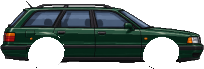
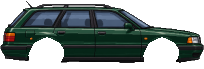
Testi con l'auto scelta e ritagli delle auto puliti
{Auto}/{auto}/{tipo} nei pensieri, nel capitolo Km 0 e nel messaggio dello zio diventano l'auto
ereditata con l'articolo giusto (vgTesto, VG_AUTO_NOME; game.s.vg.eredita).
strumenti/pulisci_bordi.py su tutte le 26 auto: tolti i pezzi di gomma e d'ombra sotto la
carrozzeria (488 pixel) e chiusi i buchi di un pixel nei passaruota (puntini di sfondo).

Claude-Session: https://claude.ai/code/session_015Y1zDhJgdDsS7JFF2BNqUJ

diff --git a/viaggio.js b/viaggio.js
@@ -9,6 +9,17 @@
 
 // ---------------------------------------------------------------- la strada: tappe e paesaggi
 const VG_STOP0 = 1800, VG_STEP = 3200;                     // prima tappa al km 1,8, poi una ogni 3,2 km
+// l'auto ereditata dallo zio (scelta nel prologo) nei testi della storia: {Auto} e {auto} diventano «La Panda» / «la Panda»,
+// {tipo} «un'utilitaria» / «una station wagon». Si ricorda in game.s.vg.eredita (senza: la Volvo).
+const VG_AUTO_NOME = { v40: ['la', 'Volvo', 'una station wagon'], a80: ["l'", 'Audi', 'una station wagon'], panda: ['la', 'Panda', "un'utilitaria"],
+  punto: ['la', 'Punto', "un'utilitaria"], corsa: ['la', 'Corsa', "un'utilitaria"], polo: ['la', 'Polo', "un'utilitaria"] };
+function vgTesto(game, text) {
+  if (typeof text !== 'string' || text.indexOf('{') < 0) return text;
+  const id = (game && game.s && game.s.vg && game.s.vg.eredita) || 'v40', c = typeof CARS !== 'undefined' && CARS[id];
+  const [art, nome, tipo] = VG_AUTO_NOME[id] || ['la', (c && (c.short || c.name)) || 'auto', "un'auto"];
+  const low = art.endsWith("'") ? art + nome : art + ' ' + nome, cap = low.charAt(0).toUpperCase() + low.slice(1);
+  return text.replace(/\{Auto\}/g, cap).replace(/\{auto\}/g, low).replace(/\{tipo\}/g, tipo);
+}
 const VG_PATTERN = ['bar', 'fuel', 'grill', 'niko', 'bar', 'motel', 'fuel', 'shop', 'bar', 'grill', 'style', 'motel'];
 const VG_BARS = ['Bar Sport', 'Bar della Curva', 'Caffè del Ponte', 'Bar Stella', 'Bar dei Camionisti', 'Bar Luna', 'Caffè Centrale', 'Bar Ultima Sosta'];
 const VG_PLACE = {
@@ -94,7 +105,7 @@ const VG_RUMORS = [
 // capitoli: si leggono al passaggio dei chilometri. Per ora solo la partenza: il resto lo scrive la nuova storia
 // (km, title, text; ogni capitolo si legge una volta)
 const VG_CHAPTERS = [
-  { km: 0, title: 'Km 0', text: 'La Volvo di tuo zio, il motore ancora freddo. In tasca pochi soldi, nel bagagliaio la ruota di scorta. Davanti l\'autostrada, e un cartello solo: «SOLO AVANTI». Al bar del km 1,8 qualcuno ti aspetta con un lavoro: un pacco da portare al benzinaio dopo, pagano diecimila. Metti la prima.' },
+  { km: 0, title: 'Km 0', text: '{Auto} di tuo zio, il motore ancora freddo. In tasca pochi soldi, nel bagagliaio la ruota di scorta. Davanti l\'autostrada, e un cartello solo: «SOLO AVANTI». Al bar del km 1,8 qualcuno ti aspetta con un lavoro: un pacco da portare al benzinaio dopo, pagano diecimila. Metti la prima.' },
 ];
 
 // ---------------------------------------------------------------- eventi strani (per ora vuoto: li scrive la nuova storia)
@@ -358,7 +369,7 @@ const vgKm = (game) => (game.s.dist || 0) / 1000;
     const v = this.s.vg, c = VG_CHAPTERS.find((q) => q.km === k); if (!c) return;
     v.chapters[k] = true;
     this.prompt = null;
-    this.ask({ kind: 'story', title: c.title, text: c.text, time: 40, options: [{ label: k === 0 ? 'Parti' : 'Continua' }] });
+    this.ask({ kind: 'story', title: c.title, text: vgTesto(this, c.text), time: 40, options: [{ label: k === 0 ? 'Parti' : 'Continua' }] });
   };
 
   // ------------------------------------------------------------ autostoppisti
@@ -575,4 +586,4 @@ const vgKm = (game) => (game.s.dist || 0) / 1000;
   };
 })();
 
-if (typeof window !== 'undefined') Object.assign(window, { VG, VG_SHOP, VG_CHAPTERS, VG_ODD, VG_STORY_PAX, VG_FOODS, VG_SEATS, VG_RUMORS, vgOn });
+if (typeof window !== 'undefined') Object.assign(window, { vgTesto, VG_AUTO_NOME, VG, VG_SHOP, VG_CHAPTERS, VG_ODD, VG_STORY_PAX, VG_FOODS, VG_SEATS, VG_RUMORS, vgOn });

diff --git a/telefono.js b/telefono.js
@@ -18,7 +18,7 @@ const TEL_SMS = [
   { from: 'Studio Ferri', km: 0, dir: 'o', text: 'Arrivo.' },
   { from: 'Officina Niko', km: 2, text: 'Il tagliando te lo faccio a metà prezzo se passi stasera.' },
   { from: 'Motel Ovunque', km: 4, text: 'Camera 7 libera. La cassa la trovi già dentro.' },
-  { from: 'Zio Claudio', km: 150, bad: 1, text: 'Hai preso la Volvo. Giusto così.' },
+  { from: 'Zio Claudio', km: 150, bad: 1, text: 'Hai preso {auto}. Giusto così.' },   // {auto}: l'auto scelta nel garage
   { from: 'Zio Claudio', km: 400, bad: 1, text: 'sei già passato di qui' },
   { from: 'Zio Claudio', km: 400.1, bad: 1, dir: 'o', text: 'chi sei' },
   { from: 'Zio Claudio', km: 400.2, bad: 1, text: 'non fermarti' },
@@ -146,7 +146,8 @@ const telThreads = (km) => {
   const initials = (n) => n.split(' ').map((w) => w[0]).slice(0, 2).join('');
   const av = (n, bad) => `<span class="av ${bad ? 'bad' : ''}">${initials(n)}</span>`;
   const nav = (t, back) => `<div class="nav ${back ? 'sm' : ''}">${back ? '<button class="bk" data-back>‹ Indietro</button>' : ''}<h3>${t}</h3>${back ? '<span style="width:60px"></span>' : ''}</div>`;
-  const esc = (s) => String(s).replace(/[&<>"]/g, (c) => ({ '&': '&amp;', '<': '&lt;', '>': '&gt;', '"': '&quot;' }[c]));
+  const auto = (s) => (typeof vgTesto === 'function' && window.nightRun ? vgTesto(window.nightRun.game, s) : s);   // {auto} → l'auto ereditata
+  const esc = (s) => String(auto(s)).replace(/[&<>"]/g, (c) => ({ '&': '&amp;', '<': '&lt;', '>': '&gt;', '"': '&quot;' }[c]));
 
   // ------------------------------------------------------------ schermate
   const status = () => `<div class="sb"><span>${clock()}</span><span>${atto() >= 1 ? '<span style="opacity:.5">▂▄▆</span>' : '▂▄▆▇'}<span class="bat ${atto() >= 2 ? 'low' : ''}"><i></i></span></span></div><div class="isl"></div><div class="hb" data-home></div>`;
@@ -282,7 +283,7 @@ const telThreads = (km) => {
     if (btn) btn.hidden = false;
     const k = km(), t = T(), n = TEL_SMS.filter((m) => m.km <= k).length;
     if (t.n === undefined) t.n = n;                                      // i messaggi che c'erano già non fanno avviso (la lettera dello studio l'hai letta nel prologo)
-    if (n > t.n) { const m = TEL_SMS.filter((x) => x.km <= k && x.dir !== 'o').pop(); t.n = n; if (m) { toast(m.from, m.text, m.bad); if (ST.on && ST.view === 'msg') render(); } refreshBtn(); }
+    if (n > t.n) { const m = TEL_SMS.filter((x) => x.km <= k && x.dir !== 'o').pop(); t.n = n; if (m) { toast(m.from, auto(m.text), m.bad); if (ST.on && ST.view === 'msg') render(); } refreshBtn(); }
     // cartelloni delle app: il prossimo compare sulla strada davanti a te; quando lo superi spunta l'icona da scaricare
     const off = telNextOffer(k, t.apps);
     if (off && g.ents) { const x = g.s.dist + 260; t.apps[off.app] = { st: 'sign', x }; g.ents.push({ id: g.id++, kind: 'vgsign', lane: 0, x, v: 0, text: off.sign, app: true }); }

diff --git a/pensieri.js b/pensieri.js
@@ -11,7 +11,7 @@ const PENS_KM = [
   { km: 1, id: 'radio', text: 'La radio gracchia. E queste stazioni non le ho mai sentite, eppure sono sempre in zona.' },
   { km: 3.5, id: 'navigatore', text: 'Il navigatore del telefono dice solo «prosegui dritto». Utile.' },
   { km: 6, id: 'uscite', text: 'Guido da un po\' e non ho ancora visto un\'uscita. Non mi ricordavo questa strada così.' },
-  { km: 9, id: 'volvo', text: 'La Volvo di zio Claudio non l\'avevo mai guidata. Si sente che l\'ha tenuta bene.' },
+  { km: 9, id: 'volvo', text: '{Auto} di zio Claudio non l\'avevo mai guidata. Si sente che l\'ha tenuta bene.' },   // {Auto}: l'auto scelta nel garage
   { km: 13, id: 'bar', text: 'Tanti bar, tutti aperti. A quest\'ora, poi.' },
   { km: 18, id: 'cartello', text: 'Sono sicuro di aver già visto quel cartello. Forse no.' },
 ];
@@ -38,7 +38,7 @@ const PENS_BISOGNI = {
 // a caso, ogni tanto, mentre si guida: ognuno una sola volta per partita
 const PENS_ANIMO = [
   'Che silenzio. Solo il motore e la strada.',
-  'La Volvo tira bene, per essere una station wagon.',
+  '{Auto} tira bene, per essere {tipo}.',
   'Chissà cosa aveva in mente lo zio con tutte quelle auto sotto i teli.',
   'Di notte la strada sembra più lunga. Come diceva il notaio.',
   'Ho la strada quasi tutta per me.',
@@ -70,6 +70,7 @@ const PENS_RIPETI = 420;                  // se il bisogno resta, lo ripete (con
   P.vgThink = function (text) {
     const p = stato(this);
     this.thoughtN = (this.thoughtN || 0) + 1;
+    text = typeof vgTesto === 'function' ? vgTesto(this, text) : text;
     this.thought = { text, left: Math.max(8, Math.min(10, 7.5 + text.length * 0.025)), id: this.thoughtN };
     p.last = p.t;
   };

diff --git a/index.html b/index.html
@@ -3240,7 +3240,8 @@ html.game .road { box-shadow: inset 0 0 0 1px rgba(255,255,255,.06), 0 10px 30px
         if (game.s.vg.inherited) return;
         if (id && CARS[id] && id !== game.car) { game.s.vg.garage = [id]; window.nightRun.swapCar(id); }
         if (game.car === id || !id) game.s.vg.garage = [game.car];
-        if (game.vgInherit && game.vgInherit()) { applySettings(); renderServices(); saveGame(); setTimeout(() => flash(`La ${CARS[game.car].short || CARS[game.car].name} dello zio è ferma da anni: gomme sgonfie, olio da cambiare, poca benzina. Prima tappa: un benzinaio o Niko`, 6), 1500); }
+        game.s.vg.eredita = game.car;
+        if (game.vgInherit && game.vgInherit()) { applySettings(); renderServices(); saveGame(); setTimeout(() => flash(`${vgTesto(game, '{Auto}')} dello zio è ferma da anni: gomme sgonfie, olio da cambiare, poca benzina. Prima tappa: un benzinaio o Niko`, 6), 1500); }
       };
       NightPrologo.play({ ctx: () => audio.ctx, onPick: eredita, onDone: () => { eredita(null); $('btnIgn').focus(); if (game.prompt) game.prompt.t = game.prompt.time; startRadio(); } });
     } else setTimeout(startRadio, 700);

diff --git a/test/eredita.test.js b/test/eredita.test.js
@@ -16,3 +16,12 @@ test('eredità: gomme sgonfie e consumate, tagliando da fare, ammaccata, poca be
   game.inflate(); game.tyreUpdate(0.1, 0); const k = sim.tyreK; assert.ok(k > 0.95, 'gonfiate tornano a posto');
   assert.equal(game.vgInherit(), false, 'una volta sola');
 });
+
+test('eredità: i testi della storia nominano l\'auto scelta, con l\'articolo giusto', () => {
+  const { vgTesto } = new Function(src + ';return { vgTesto };')();
+  const t = (id) => vgTesto({ s: { vg: { eredita: id } } }, '{Auto} tira bene, per essere {tipo}. Hai preso {auto}.');
+  assert.equal(t('a80'), 'L\'Audi tira bene, per essere una station wagon. Hai preso l\'Audi.');
+  assert.equal(t('panda'), 'La Panda tira bene, per essere un\'utilitaria. Hai preso la Panda.');
+  assert.equal(t(undefined), 'La Volvo tira bene, per essere una station wagon. Hai preso la Volvo.');
+  assert.equal(vgTesto(null, 'niente da cambiare'), 'niente da cambiare');
+});

diff --git a/strumenti/pulisci_bordi.py b/strumenti/pulisci_bordi.py
@@ -1,0 +1,47 @@
+# Pulisce i ritagli delle auto: toglie i pixel rimasti dal disegno originale sotto la carrozzeria (pezzi di gomma sotto i
+# passaruota, l'ombra a terra fra le ruote) e i pixel del tutto isolati. Non tocca antenne, specchietti e dettagli sottili
+# sopra le ruote: sotto la metà della ruota toglie solo le linee sottili (al massimo 2 vicini su 8), sopra solo i pixel soli.
+# Chiude anche i buchi di un pixel (trasparente con almeno 6 vicini pieni, fuori dal cerchio della ruota) col colore medio
+# dei vicini: nei passaruota lasciavano vedere lo sfondo a puntini.
+# Uso (dalla radice del repository): python3 -I strumenti/pulisci_bordi.py img geo.json [--prova]
+#   geo.json = { "<id>": { "wy": .., "wr": .., "ax": [x dietro, x davanti] }, ... }  (da CARS[id].sprite)
+#   --prova: non scrive niente, dice solo quanti pixel toglierebbe
+import sys, json, os, numpy as np
+from PIL import Image
+d, geo, prova = sys.argv[1], json.load(open(sys.argv[2])), '--prova' in sys.argv
+def vicini(op):
+    H, W = op.shape; p = np.pad(op, 1)
+    return sum(p[1 + dy:H + 1 + dy, 1 + dx:W + 1 + dx] for dy in (-1, 0, 1) for dx in (-1, 0, 1) if dy or dx)
+for cid, G in geo.items():
+    f = os.path.join(d, cid + '.png')
+    if not os.path.exists(f): continue
+    a = np.array(Image.open(f).convert('RGBA')); tot = 0
+    for _ in range(3):                                         # a passate: un filo staccato si consuma dalle punte
+        op = a[:, :, 3] > 0; n = vicini(op); H, W = op.shape
+        yy = np.arange(H)[:, None] * np.ones((1, W)); basso = yy > G['wy'] + G['wr'] * 0.2
+        via = (op & (n == 0)) | (op & basso & (n <= 2))
+        k = int(via.sum()); tot += k
+        if not k: break
+        a[via, 3] = 0
+    # buchi di un pixel, fuori dalle ruote (dentro le copre il disegno della ruota)
+    op = a[:, :, 3] > 0; n = vicini(op); H, W = op.shape
+    yy, xx = np.mgrid[0:H, 0:W]; dentro = np.zeros_like(op)
+    for ax in G['ax']: dentro |= np.hypot(xx - ax, yy - G['wy']) < G['wr'] - 1
+    buchi = (~op) & (n >= 6) & ~dentro; nb = int(buchi.sum())
+    if nb:
+        c = a[:, :, :3].astype(float) * op[:, :, None]; p = np.pad(c, ((1, 1), (1, 1), (0, 0))); q = np.pad(op.astype(float), 1)
+        sc = sum(p[1 + dy:H + 1 + dy, 1 + dx:W + 1 + dx] for dy in (-1, 0, 1) for dx in (-1, 0, 1) if dy or dx)
+        sn = sum(q[1 + dy:H + 1 + dy, 1 + dx:W + 1 + dx] for dy in (-1, 0, 1) for dx in (-1, 0, 1) if dy or dx)
+        a[buchi, :3] = (sc[buchi] / sn[buchi][:, None]).round().astype(np.uint8); a[buchi, 3] = 255
+    # bordo del passaruota (fascia di 5 pixel attorno al cerchio della ruota): lì basta che il buco abbia 4 vicini pieni
+    for _ in range(3):
+        op = a[:, :, 3] > 0; n = vicini(op); fascia = np.zeros_like(op)
+        for ax in G['ax']: dd = np.hypot(xx - ax, yy - G['wy']); fascia |= (dd >= G['wr'] - 1) & (dd <= G['wr'] + 4) & (yy <= G['wy'] + G['wr'] * 0.2)
+        b2 = (~op) & (n >= 4) & fascia; k = int(b2.sum())
+        if not k: break
+        c = a[:, :, :3].astype(float) * op[:, :, None]; p = np.pad(c, ((1, 1), (1, 1), (0, 0))); q = np.pad(op.astype(float), 1)
+        sc = sum(p[1 + dy:H + 1 + dy, 1 + dx:W + 1 + dx] for dy in (-1, 0, 1) for dx in (-1, 0, 1) if dy or dx)
+        sn = sum(q[1 + dy:H + 1 + dy, 1 + dx:W + 1 + dx] for dy in (-1, 0, 1) for dx in (-1, 0, 1) if dy or dx)
+        a[b2, :3] = (sc[b2] / sn[b2][:, None]).round().astype(np.uint8); a[b2, 3] = 255; nb += k
+    print(f'{cid:10s} tolti {tot:4d} pixel, chiusi {nb:3d} buchi')
+    if (tot or nb) and not prova: Image.fromarray(a).save(f)

diff --git a/PASSAGGIO.md b/PASSAGGIO.md
@@ -72,6 +72,8 @@ gioco fa, sezione per sezione).
   inquadrata nello spazio libero accanto al pannello (a destra su computer, sopra su telefono). Ogni locale ha chi ti
   serve con la sua posa animata, luci e neon, finestre sulla notte con traffico e pioggia, la tua auto fuori e un
   suono d'ambiente. I punti toccabili (es. la bacheca del bar) portano alla sezione giusta del pannello.
+- **Testi con l'auto scelta**: `{Auto}`, `{auto}`, `{tipo}` nei testi della storia (pensieri, capitoli, messaggi) diventano
+  «La Panda», «l'Audi», «un'utilitaria»… secondo l'auto ereditata (`game.s.vg.eredita`, `vgTesto` e `VG_AUTO_NOME` in `viaggio.js`).
 - **Tasti, eredità, giunti (17/11/2026)**: tolto il "ta-dum" delle ruote sui giunti dell'asfalto (dava fastidio);
   i colpetti fanno il rumore di lamiera solo contro un'auto. Pulsante TASTI accanto a MENU e TELEFONO con l'elenco dei
   comandi e la possibilità di cambiarli (`tasti.js`; sul telefono solo l'icona). All'inizio del primo Viaggio la Volvo
@@ -207,3 +209,6 @@ Gli strumenti sono in `strumenti/` (Python con Pillow e NumPy):
    limitatore, marce, finale, prezzo, km di sblocco, diesel): coppia, voce del motore, quadro e catalogo dei pezzi
    si costruiscono da lì. Poi aggiungilo a `GAME_TRAFFIC` (velocità tipiche e frequenza) e, se ha posti diversi,
    a `VG_SEATS` in `viaggio.js`. Controlla lo 0-100 con una prova veloce della fisica.
+7. Pulisci i ritagli: `python3 -I strumenti/pulisci_bordi.py img geo.json` (geo.json con `wy`, `wr`, `ax` di ogni sprite,
+   da `CARS[id].sprite`; prima con `--prova`). Toglie i pezzi di gomma e d'ombra rimasti sotto la carrozzeria e chiude i
+   buchi di un pixel nei passaruota, che lasciavano vedere lo sfondo a puntini. Fatto su tutte le 26 auto il 17/11/2026.

diff --git a/.claude/skills/night-run-storia/SKILL.md b/.claude/skills/night-run-storia/SKILL.md
@@ -31,6 +31,9 @@ psicologico. Il telefono è lo strumento principale. La vecchia storia è stata 
 | App che compaiono | `telefono.js` | `window.telefono.install(id)` / `addApp(...)` |
 | Cartelloni sulla strada | `telefono.js` | `TEL_APP_OFFERS` |
 
+Nei testi si può scrivere `{Auto}` / `{auto}` (l'auto scelta nel garage, con l'articolo: «La Panda», «l'Audi») e
+`{tipo}` («un'utilitaria», «una station wagon»): li sostituisce `vgTesto` in `viaggio.js`.
+
 ## Provare un momento della storia
 Senza guidare per ore: `node strumenti/prova.js km:150 aspetta:3000 foto:momento stato` (skill `night-run-prova`).
 Per un messaggio: `js:telefono.sms('Sconosciuto','...')`. Per un pensiero: `js:g.vgThink('...')`.
